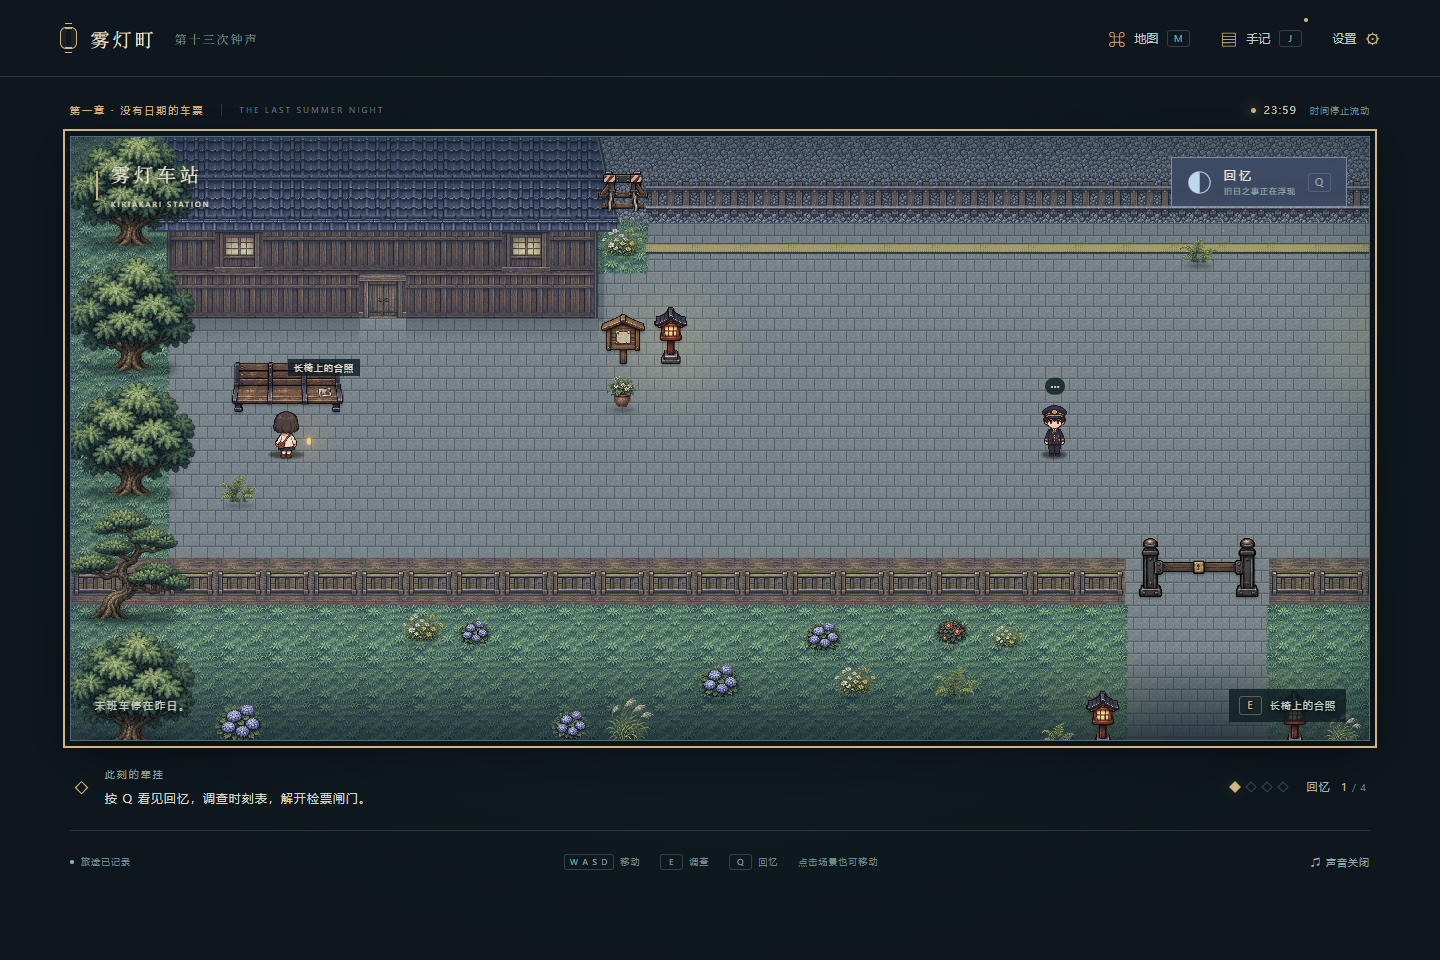
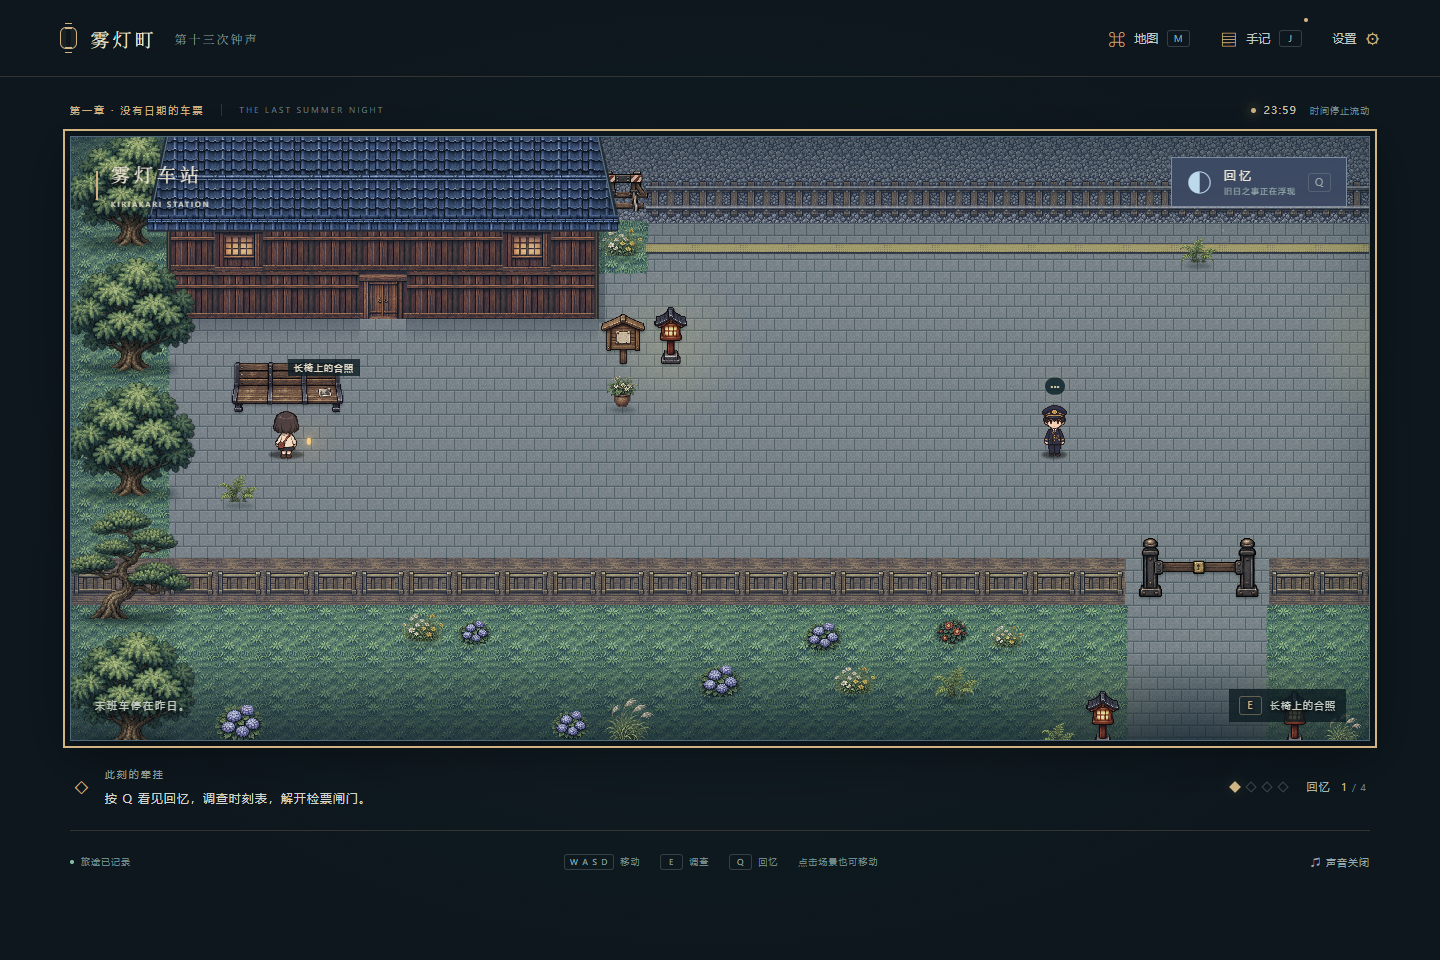
Unify building, prop and foliage occlusion by ground position

Changed region(s): [[0.0938, 0.125, 0.4375, 0.3438]]

diff --git a/world.js b/world.js
@@ -13,6 +13,10 @@
   const scenery = document.createElement('div'); scenery.id = 'scenery'; scenery.setAttribute('aria-hidden','true');
   document.getElementById('world').appendChild(scenery);
   const furniture = document.createElement('div'); furniture.id='furniture';furniture.setAttribute('aria-hidden','true');document.getElementById('world').appendChild(furniture);
+  const buildings=document.createElement('div');buildings.id='buildings';buildings.setAttribute('aria-hidden','true');document.getElementById('world').appendChild(buildings);
+  const depth=(y,bias=0)=>Math.round((y+.92)*100)+100+bias;
+  const buildingAt=(map,x,y)=>map.buildings.find(b=>x>=b.x&&x<b.x+b.width&&y>=b.y&&y<b.frontY);
+  let buildingNodes=[],buildingKey='';
   let sceneryZone = null, sceneryNodes = [];
   let propNodes = [];
   const pavingCache=new Map(), contextPatterns=new WeakMap();
@@ -127,7 +131,8 @@
       sceneryNodes=map.scenery.map(plant=>{
         const node=document.createElement('div');node.className='scenery-sprite'+(plant.sprite<8?' tree':' plant')+(plant.sprite===15?' leaves':'');
         node.style.setProperty('--plant-scale',plant.size);
-        node.style.zIndex=String(Math.round(plant.y*5)+8);
+        node.style.zIndex=String(plant.sprite===15?0:depth(plant.y,-1));
+        node.dataset.groundY=String(plant.y);node.dataset.sprite=String(plant.sprite);
         const art=document.createElement('span');art.className='scenery-art';
         art.style.backgroundPosition=`${plant.sprite%4*100/3}% ${Math.floor(plant.sprite/4)*100/3}%`;
         const shadow=document.createElement('span');shadow.className='scenery-shadow';
@@ -138,7 +143,7 @@
         const node=document.createElement('canvas');node.className='scene-prop';node.dataset.prop=prop.id;
         node.width=256;node.height=256;node.style.setProperty('--prop-scale',prop.size);
         const pose=root.KiriMaps.attachmentPose(map.id,prop);
-        node.style.zIndex=String(pose?Math.round(pose.building.frontY*5)+18:Math.round(prop.y*5)+(prop.hanging?12:7));
+        node.style.zIndex=String(pose?depth(pose.building.frontY-.92,1):depth(prop.y,-1));
         let thread=null;if(pose){thread=document.createElement('span');thread.className='roof-thread';thread.dataset.attachment=prop.attachment.building;thread.style.zIndex=node.style.zIndex;furniture.appendChild(thread);}
         furniture.appendChild(node);return {prop,node,thread,painted:null};
       });
@@ -159,6 +164,26 @@
       if(thread){const a=project({x:pose.x-.5,y:pose.threadY-.92});thread.style.left=a.x+'px';thread.style.top=a.y+'px';thread.style.height=Math.max(0,(pose.bottomY-prop.size*.5-pose.threadY)*view.tile)+'px';}
     });
   }
+  function paintBuilding(pen,map,b,size,originX,originY){
+    for(let y=b.eaveY;y<b.frontY;y++)for(let x=b.x;x<b.x+b.width;x++)texture(pen,map.tiles[y*map.w+x],x*size-originX,y*size-originY,size,'object');
+    drawBuildings(pen,{buildings:[b]},size,originX,originY);
+  }
+  function drawBuildingLayer(map,phase){
+    const size=view.tile,key=map.id+':'+size+':'+phase;
+    if(key!==buildingKey){
+      buildingKey=key;buildings.replaceChildren();
+      buildingNodes=map.buildings.map(b=>{
+        const node=document.createElement('canvas');node.className='building-sprite';node.dataset.building=b.id;
+        node.width=Math.ceil((b.width+1.2)*size);node.height=Math.ceil((b.height+.4)*size);
+        node.style.zIndex=String(depth(b.frontY-.92));
+        const pen=node.getContext('2d');pen.imageSmoothingEnabled=false;
+        paintBuilding(pen,map,b,size,(b.x-.6)*size,(b.y-.1)*size);
+        pen.globalCompositeOperation='source-atop';pen.fillStyle=phase==='echo'?'rgba(59,84,123,.19)':'rgba(5,22,38,.22)';pen.fillRect(0,0,node.width,node.height);
+        buildings.appendChild(node);return {b,node};
+      });
+    }
+    buildingNodes.forEach(({b,node})=>{node.style.left=Math.round((b.x-.6-view.x)*size)+'px';node.style.top=Math.round((b.y-.1-view.y)*size)+'px';});
+  }
   function draw(zone, player, time, phase,solved=[]) {
     const map = root.KiriMaps.maps[zone]; view.zone = zone;
     const cols = view.width / view.tile, rows = view.height / view.tile;
@@ -172,8 +197,8 @@
       for (let x = Math.max(0, Math.floor(view.x)); x < Math.min(map.w, Math.ceil(view.x + cols)); x++) {
         const id = map.tiles[y * map.w + x];
         const px=x*view.tile-originX,py=y*view.tile-originY;
-        const roofCell=map.buildings.some(b=>x>=b.x&&x<b.x+b.width&&y>=b.y&&y<b.eaveY);
-        texture(ctx,roofCell?map.floor:id,px,py,view.tile,roofCell?'grass':map.materials[y*map.w+x],originX,originY);
+        const building=buildingAt(map,x,y);
+        texture(ctx,building?map.floor:id,px,py,view.tile,building?'grass':map.materials[y*map.w+x],originX,originY);
         blendEdge(map,x,y,px,py);
         fineWear(map,x,y,px,py);
         if(map.materials[y*map.w+x]!=='object'&&y>0&&[17,21,22,25,28].includes(map.tiles[(y-1)*map.w+x])) {
@@ -183,7 +208,6 @@
         if (id === 6 || id === 7) { ctx.fillStyle = `rgba(102,183,206,${.04 + Math.sin(time * .0015 + x * .7 + y * .3) * .035})`; ctx.fillRect(px, py, view.tile, view.tile); }
       }
     }
-    drawBuildings(ctx,map,view.tile,originX,originY);
     drawPlatform(ctx,map,view.tile,originX,originY);
     ctx.fillStyle = phase === 'echo' ? 'rgba(59,84,123,.19)' : 'rgba(5,22,38,.22)'; ctx.fillRect(0, 0, view.width, view.height);
     map.lights.forEach(({x,y})=>{
@@ -193,24 +217,25 @@
       gradient.addColorStop(0, 'rgba(255,194,93,.20)'); gradient.addColorStop(1, 'rgba(255,194,93,0)');
       ctx.fillStyle = gradient; ctx.fillRect(p.x - radius, p.y - radius, radius * 2, radius * 2);
     });
-    drawScenery(map,solved);
+    drawBuildingLayer(map,phase);drawScenery(map,solved);
   }
   function thumbnail(zone, output,solved=[]) {
     const map = root.KiriMaps.maps[zone], size = 8;
     output.width = map.w * size; output.height = map.h * size;
     const pen = output.getContext('2d'); pen.imageSmoothingEnabled = false;
     if (!image.complete || !image.naturalWidth) return;
-    map.tiles.forEach((tile, i) => {const x=i%map.w,y=Math.floor(i/map.w),roofCell=map.buildings.some(b=>x>=b.x&&x<b.x+b.width&&y>=b.y&&y<b.eaveY);texture(pen,roofCell?map.floor:tile,x*size,y*size,size,roofCell?'grass':map.materials[i]);});
-    drawBuildings(pen,map,size);
+    map.tiles.forEach((tile, i) => {const x=i%map.w,y=Math.floor(i/map.w),building=buildingAt(map,x,y);texture(pen,building?map.floor:tile,x*size,y*size,size,building?'grass':map.materials[i]);});
     drawPlatform(pen,map,size);
+    const layers=map.buildings.map(b=>({z:depth(b.frontY-.92),draw:()=>paintBuilding(pen,map,b,size,0,0)}));
     if(foliage.complete&&foliage.naturalWidth) {
       const sw=foliage.naturalWidth/4,sh=foliage.naturalHeight/4;
-      map.scenery.forEach(p=>{
+      map.scenery.forEach(p=>layers.push({z:p.sprite===15?0:depth(p.y,-1),draw:()=>{
         const extent=p.size*size;
         pen.drawImage(foliage,p.sprite%4*sw,Math.floor(p.sprite/4)*sh,sw,sh,(p.x+.5)*size-extent*.5,(p.y+.92)*size-extent*.96,extent,extent);
-      });
+      }}));
     }
-    map.props.forEach(p=>{const {source,columns,rows,sprite}=propFrame(p,solved);if(!source.complete||!source.naturalWidth)return;const sw=source.naturalWidth/columns,sh=source.naturalHeight/rows,extent=p.size*size,pose=root.KiriMaps.attachmentPose(zone,p),x=pose?pose.x:p.x+.5,y=pose?pose.bottomY:p.y+.92;pen.drawImage(source,sprite%columns*sw+4,Math.floor(sprite/columns)*sh+4,sw-8,sh-8,x*size-extent*.5,y*size-extent*.985,extent,extent);});
+    map.props.forEach(p=>{const pose=root.KiriMaps.attachmentPose(zone,p);layers.push({z:pose?depth(pose.building.frontY-.92,1):depth(p.y,-1),draw:()=>{const {source,columns,rows,sprite}=propFrame(p,solved);if(!source.complete||!source.naturalWidth)return;const sw=source.naturalWidth/columns,sh=source.naturalHeight/rows,extent=p.size*size,x=pose?pose.x:p.x+.5,y=pose?pose.bottomY:p.y+.92;pen.drawImage(source,sprite%columns*sw+4,Math.floor(sprite/columns)*sh+4,sw-8,sh-8,x*size-extent*.5,y*size-extent*.985,extent,extent);}});});
+    layers.sort((a,b)=>a.z-b.z).forEach(layer=>layer.draw());
   }
-  root.KiriRenderer = { view, resize, draw, project, unproject, thumbnail, assetsReady:()=>[image,foliage,mountedImage,worldProps,stoneGrain,stationKit,craneImage].every(i=>i.complete&&i.naturalWidth>0) };
+  root.KiriRenderer = { view, resize, draw, project, unproject, thumbnail, depth, assetsReady:()=>[image,foliage,mountedImage,worldProps,stoneGrain,stationKit,craneImage].every(i=>i.complete&&i.naturalWidth>0) };
 })(globalThis);

diff --git a/game.js b/game.js
@@ -105,7 +105,7 @@
     const player = $('player'), point = R.project(visual); player.style.left = point.x + 'px'; player.style.top = point.y + 'px';
     player.dataset.tileX = state.player.x; player.dataset.tileY = state.player.y;
     $('world').dataset.zone = state.zone;
-    player.style.zIndex = String(Math.round(visual.y * 5) + 10);
+    player.style.zIndex = String(R.depth(visual.y));
     const frame=walking?motion.frame:1;
     player.querySelector('.sprite').style.backgroundPosition = `${walkSheetReady?frame*50:0}% ${state.player.facing * 100 / 3}%`;
     player.dataset.walkFrame=String(frame);player.dataset.facing=String(state.player.facing);
@@ -116,7 +116,7 @@
       const el = $(`object-${obj.id}`), position = R.project(M.focusPoint(state.zone,obj));
       if (el) {
         const prop=obj.support&&M.maps[state.zone].props.find(p=>p.id===obj.support),pose=prop&&M.attachmentPose(state.zone,prop);
-        el.style.left=position.x+'px';el.style.top=position.y+'px';el.style.zIndex=String(pose?Math.round(pose.building.frontY*5)+22:Math.round(obj.y*5)+(obj.character!==undefined?10:16));
+        el.style.left=position.x+'px';el.style.top=position.y+'px';el.style.zIndex=String(pose?R.depth(pose.building.frontY-.92,3):R.depth(obj.y,obj.character!==undefined?0:3));
       }
     });
     if (target) showClickTarget(target);

diff --git a/style.css b/style.css
@@ -18,7 +18,7 @@
 #tile-map{position:absolute;inset:0;width:100%;height:100%;z-index:-5;image-rendering:pixelated}
 .world-vignette{box-shadow:inset 0 0 70px #02101a44;background:linear-gradient(0deg,#041019aa,transparent 15%,transparent 80%,#03121b66)}
 .echo-wash{background:linear-gradient(120deg,#718db323,#5c98aa19)}
-.world.echo #tile-map{filter:saturate(.65) hue-rotate(12deg) brightness(1.12)}
+.world.echo #tile-map,.world.echo .building-sprite{filter:saturate(.65) hue-rotate(12deg) brightness(1.12)}
 .actor,.object .actor{width:calc(var(--tile-size)*.67);min-width:0;max-width:none;aspect-ratio:.5}
 .sprite{image-rendering:pixelated}
 .object{width:var(--tile-size);height:var(--tile-size)}
@@ -72,3 +72,6 @@
 .player.has-walk-sheet .sprite{background-image:url('assets/mio-walk-v2.png');background-size:300% 400%;top:10%;bottom:-10%;animation:none;transform:none}
 .player.has-walk-sheet.walking .sprite{animation:none;transform:none}
 .roof-thread{position:absolute;width:1px;background:#b45b4a;box-shadow:1px 0 0 #1b202455;transform:translateX(-50%);pointer-events:none}
+
+/* World sprites share one foot-based depth range; HUD stays above the scene. */
+#buildings{pointer-events:none}.building-sprite{position:absolute;pointer-events:none;image-rendering:pixelated}.scene-label,.phase-button,.scene-bottom{z-index:10000}

diff --git a/docs/LAYOUT-UPDATE.md b/docs/LAYOUT-UPDATE.md
@@ -25,3 +25,9 @@
 - 23 项规则检查通过，新增检票口实际通行、纸鹤屋檐依附、旧存档迁移检查。
 - 浏览器重新验证所有调查点、检票口、纸鹤收集、四道谜题、四种结局与手机布局。
 - 新预览：`preview-station.png` 和 `preview-crane-detail.png`。
+
+## 前后遮挡修正
+
+建筑由地面底图移至独立透明层，与人物、路障、花丛统一按脚底或根部排序。建筑以墙脚为基线，挂在墙上的纸鹤紧随父建筑，后方铁道止冲挡与植物会被屋顶遮住。深度精度提高到每格 100 级，避免小数位置的花丛和人物提前交换前后；落叶保持地面层，场景按钮和文字始终置顶。地图缩略图沿用相同排序。回忆模式的建筑保留原有色调处理。
+
+已检查花丛前后两侧截图、站房与路障交叠；23 项规则检查及浏览器完整剧情、四种结局、手机布局均通过。

diff --git a/docs/QA.md b/docs/QA.md
@@ -72,3 +72,5 @@
 - 纸鹤依附右侧民居真实屋檐，挂线起点与建筑屋檐一致，鸟身位于前墙之上、地面之前；调查点可从屋外到达。
 - 旧布局存档迁移到新入口，同时保留线索、回忆与约定。
 - 浏览器在新布局重新完成全故事、四个结局和手机检查，并生成纸鹤近景预览。
+
+遮挡复查：新增浏览器断言覆盖站房/路障、花丛根部深度、人物连续移动的前后切换、纸鹤父建筑层级及场景 UI。另保存 preview-occlusion-behind.png、preview-occlusion-front.png 与 preview-occlusion-station.png 实景对照。
